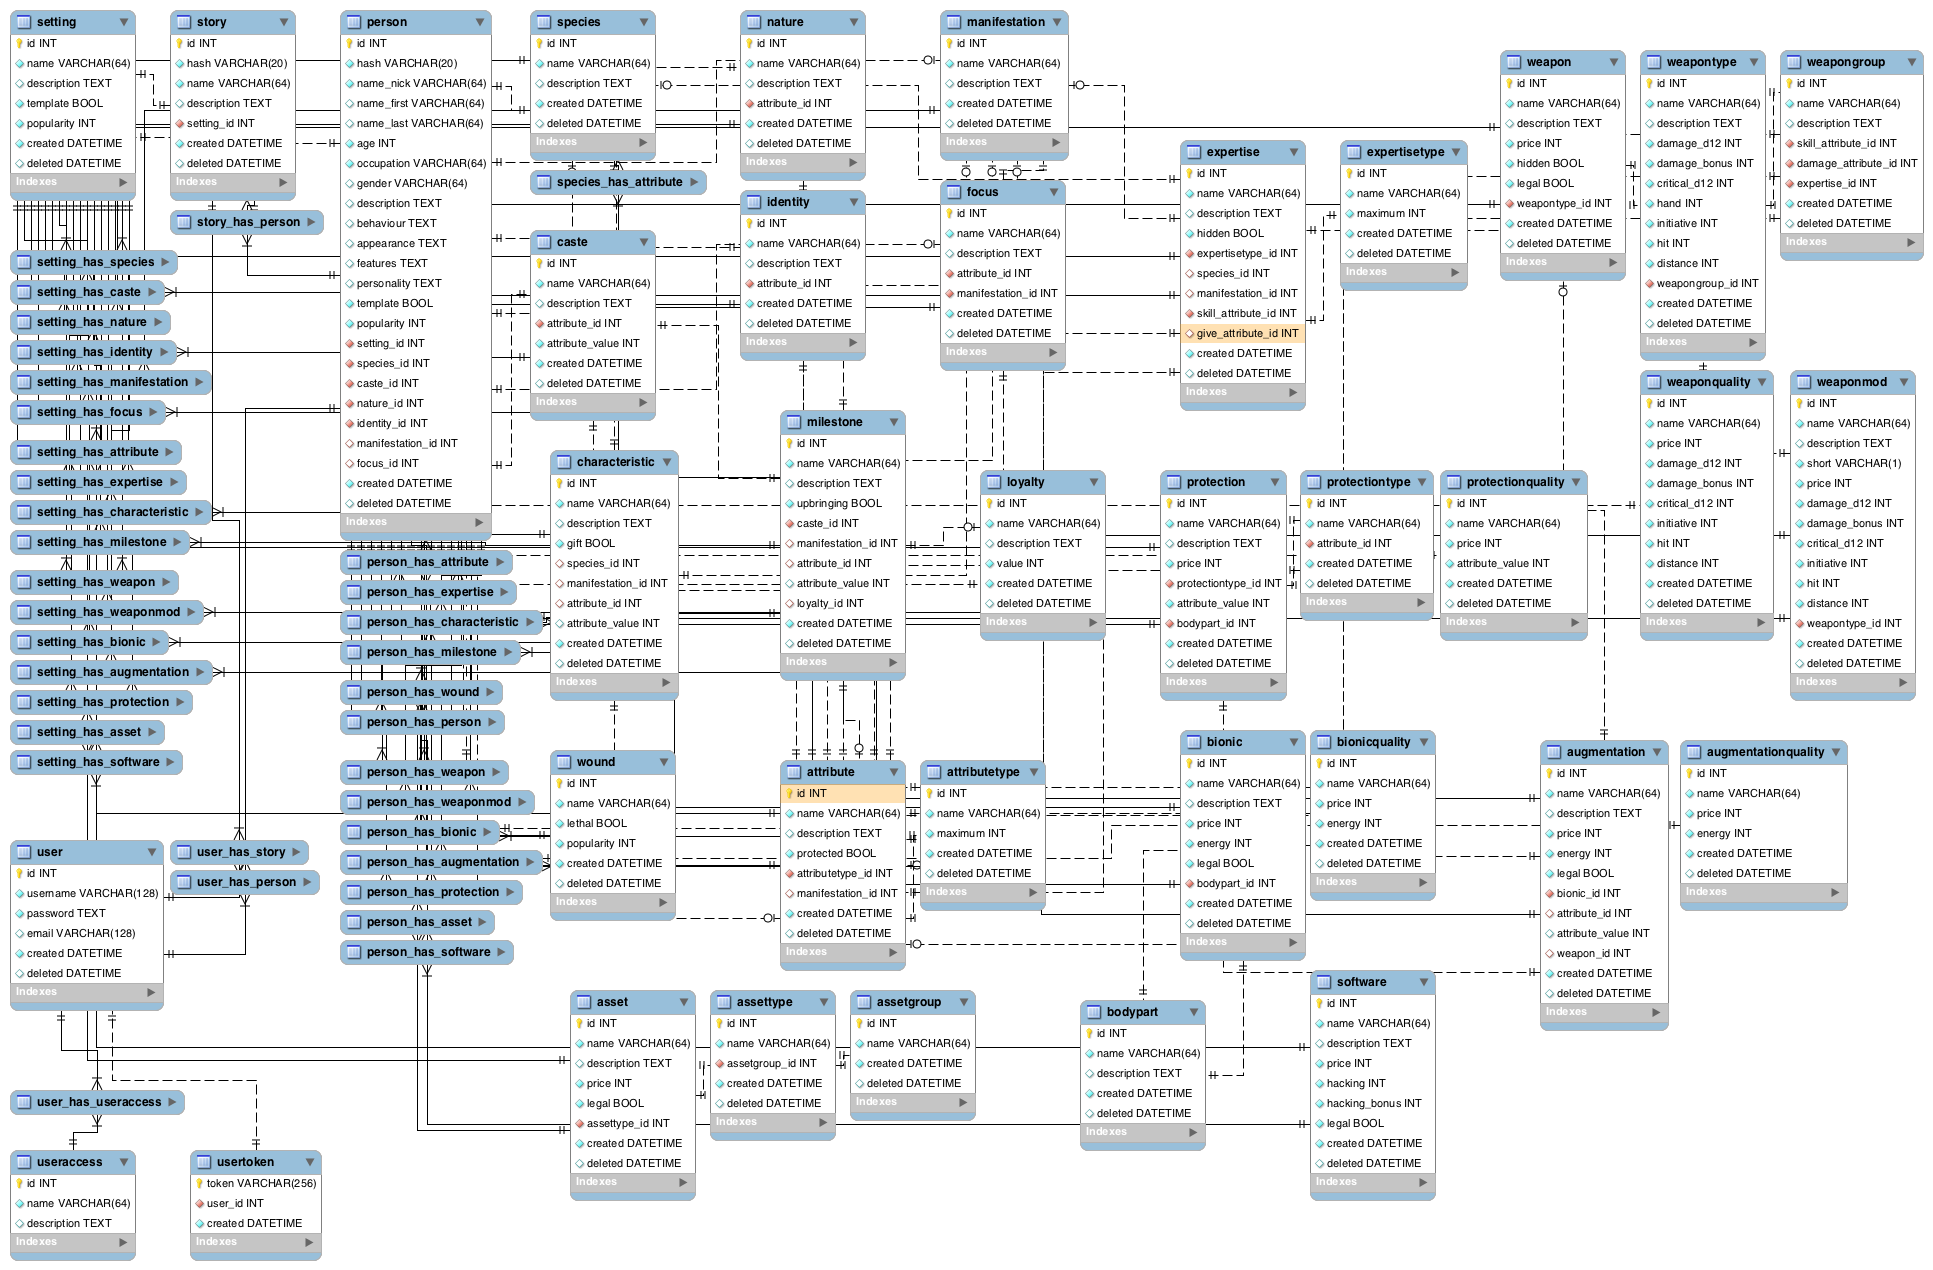
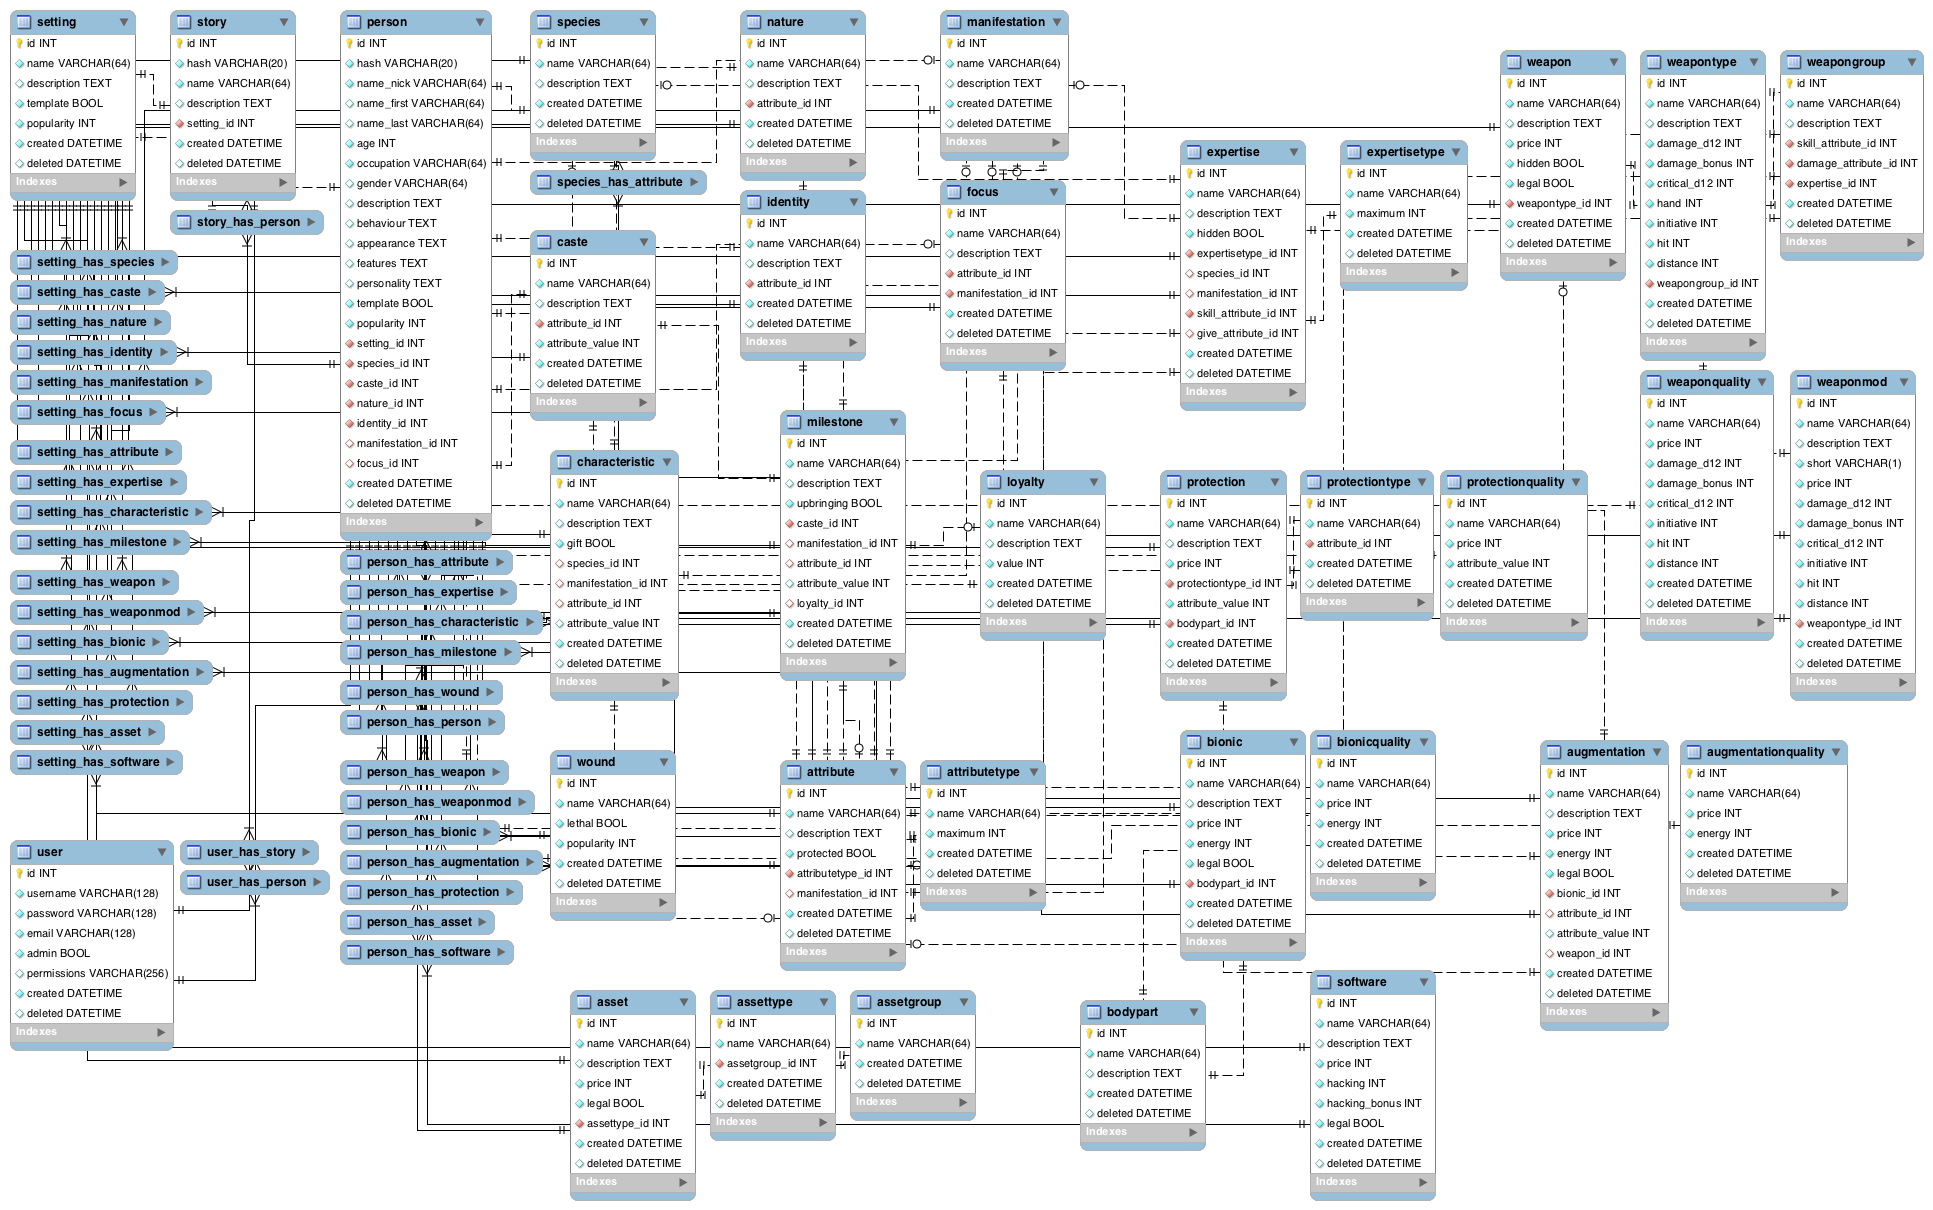
user upgrading user

diff --git a/app/rest.js b/app/rest.js
@@ -1,5 +1,9 @@
 var mysql = require('mysql'),
-    config = require('./config');
+    bcrypt = require('bcrypt'),
+    config = require('./config'),
+    webtokens = require('./webtokens');
+
+const saltRounds = 16;
 
 function DEBUG(call, error, key, restName) {
     if(key == config.keys.debug) {
@@ -206,4 +210,96 @@ exports.REMOVE = function(pool, req, res, table, jsonObject) {
             res.status(202).send({success: 'removed'});
         }
     });
+};
+
+exports.USERADD = function(pool, req, res) {
+    var user = req.body.username,
+        pass = req.body.password,
+        email = req.body.email,
+        admin = req.body.admin,
+        permissions = req.body.permissions;
+
+    bcrypt.hash(pass, saltRounds, function(error, hash) {
+        if(error) {
+            DEBUG(null, error, req.headers.debug, 'USERAUTH');
+            res.status(500).send({error: error});
+        } else {
+            var call = 'INSERT INTO user (username,password,email,admin,permissions) VALUES (\'' + user + '\',\'' + hash + '\',\'' + email + '\',\'' + admin + '\',\'' + permissions + '\')';
+
+            pool.query(call, function(error, result) {
+                if(error) {
+                    DEBUG(call, error, req.headers.debug, 'USERAUTH');
+                    res.status(500).send({error: error});
+                } else {
+                    var token = webtokens.generate({
+                        id: result.insertId,
+                        sub: result.username,
+                        agent: req.headers['user-agent'],
+                        permissions: '',
+                        admin: false
+                    });
+                    res.status(201).send({success: token});
+                }
+            });
+        }
+    });
+};
+
+exports.USERAUTH = function(pool, req, res) {
+    var reqUser = req.body.username,
+        reqPass = req.body.password;
+
+    var call = 'SELECT user.id, user.name, user.admin, user.permissions FROM user WHERE user.username = \'' + reqUser + '\'';
+
+    pool.query(call, function(error, rows) {
+        if(error) {
+            DEBUG(call, error, req.headers.debug, 'USERAUTH');
+            res.status(500).send({error: error});
+        } else {
+            if(!rows) {
+                res.status(404).send({error: 'user not found'});
+            } else {
+                var row = rows[0],
+                    rowID = row.id,
+                    rowUser = row.username,
+                    rowPass = row.password,
+                    rowAdmin = row.admin,
+                    rowPermissions = row.permissions;
+
+                bcrypt.compare(reqPass, rowPass, function(error, response) {
+                    if(error) {
+                        DEBUG(call, error, req.headers.debug, 'USERAUTH');
+                        res.status(500).send({error: error});
+                    } else {
+                        if(!response) {
+                            res.status(403).send({forbidden: 'wrong password'});
+                        } else {
+                            var token = webtokens.generate({
+                                id: rowID,
+                                sub: rowUser,
+                                agent: req.headers['user-agent'],
+                                admin: rowAdmin,
+                                permissions: rowPermissions
+                            });
+                            res.status(202).send({success: token});
+                        }
+                    }
+                });
+            }
+        }
+    });
+};
+
+exports.USERINFO = function(req, res) {
+    var token = webtokens.validate(req);
+
+    if(!token) {
+        res.status(404).send({error: 'missing token'});
+    } else {
+        if(!token.id) {
+            res.status(400).send({error: 'invalid token'});
+        } else {
+            res.status(200).send({id: token.id, username: token.sub, admin: token.admin, permissions: token.permissions});
+        }
+    }
 };

diff --git a/app/user/user.js b/app/user/user.js
@@ -1,13 +1,9 @@
-var rest = require('./../rest'),
-    bcrypt = require('bcrypt'),
-    webtokens = require('./../webtokens');
-
-const saltRounds = 10;
+var rest = require('./../rest');
 
 module.exports = function(pool, router, table, path) {
     path = path || '/' + table;
 
-    var query = 'SELECT ' +
+    var publicQuery = 'SELECT ' +
         'user.id, ' +
         'user.username, ' +
         'user.email, ' +
@@ -16,80 +12,23 @@ module.exports = function(pool, router, table, path) {
         'FROM user';
 
     router.get(path, function(req, res) {
-        rest.QUERY(pool, req, res, query, null);
+        rest.QUERY(pool, req, res, publicQuery, null);
     });
 
     router.get(path + '/id/:id', function(req, res) {
-        var call = query + ' WHERE user.id = ?';
+        var call = publicQuery + ' WHERE user.id = ?';
         rest.QUERY(pool, req, res, call, [req.params.id]);
     });
 
+    router.get(path + '/info', function(req, res) {
+        rest.USERINFO(req, res);
+    });
+
     router.post(path + '/create', function(req, res) {
-        var user = req.body.username,
-            pass = req.body.password,
-            email = req.body.email;
-
-        bcrypt.hash(pass, saltRounds, function(error, hash) {
-            if(error) {
-                res.status(500).send({error: error});
-            } else {
-                var call = 'INSERT INTO user (username,password,email) VALUES (\'' + user + '\',\'' + hash + '\',\'' + email + '\')';
-
-                pool.query(call, function(error, result) {
-                    if(error) {
-                        res.status(500).send({error: error});
-                    } else {
-                        var token = webtokens.generate({
-                            id: result.insertId,
-                            sub: result.username,
-                            agent: req.headers['user-agent'],
-                            permissions: '',
-                            admin: false
-                        });
-                        res.status(201).send({success: {id: result.insertId, user: result.username, token: token}});
-                    }
-                });
-            }
-        });
+        rest.USERADD(pool, req, res);
     });
 
     router.post(path + '/auth', function(req, res) {
-        var reqUser = req.body.username,
-            reqPass = req.body.password;
-
-        var call = 'SELECT * FROM user WHERE user.username = \'' + reqUser + '\'';
-
-        pool.query(call, function(error, rows) {
-            if(error) {
-                res.status(500).send({error: error});
-            } else {
-                if(!rows) {
-                    res.status(404).send({error: 'user not found'});
-                } else {
-                    var dbUser = rows[0].username;
-                    var dbPass = rows[0].password;
-                    var dbID = rows[0].id;
-
-                    bcrypt.compare(reqPass, dbPass, function(error, response) {
-                        if(error) {
-                            res.status(500).send({error: error});
-                        } else {
-                            if(!response) {
-                                res.status(403).send({forbidden: 'wrong password'});
-                            } else {
-                                var token = webtokens.generate({
-                                    id: dbID,
-                                    sub: dbUser,
-                                    agent: req.headers['user-agent'],
-                                    permissions: '',
-                                    admin: false
-                                });
-                                res.status(202).send({success: {id: dbID, user: dbUser, token: token}});
-                            }
-                        }
-                    });
-                }
-            }
-        });
+        rest.USERAUTH(pool, req, res);
     });
 };

diff --git a/app/user/user_has_story.js b/app/user/user_has_story.js
@@ -1,4 +1,40 @@
-//todo
+var rest = require('./../rest');
 
 module.exports = function(pool, router, table, path) {
-}
+    path = path || '/' + table;
+
+    var query = 'SELECT ' +
+        'user_has_story.user_id, ' +
+        'user_has_story.story_id, ' +
+        'user_has_story.hash AS story_hash, ' +
+        'story.name AS story_name, ' +
+        'story.setting_id, ' +
+        'setting.name AS setting_name, ' +
+        'story.created, ' +
+        'story.deleted ' +
+        'FROM user_has_story ' +
+        'LEFT JOIN story ON story.id = user_has_story.story_id ' +
+        'LEFT JOIN setting ON setting.id = story.setting_id';
+
+    router.get(path, function(req, res) {
+        var token = webtokens.validate(req);
+        var call = query + ' WHERE ' +
+            'user_has_story.user_id = ? AND ' +
+            'story.deleted is null';
+
+        rest.QUERY(pool, req, res, call, [token.id]);
+    });
+
+    router.post(path, function(req, res) {
+        rest.INSERT(pool, req, res, table, req.body);
+    });
+
+    router.delete(path + '/id/:id1/id/:id2', function(req, res) {
+        var call = {
+            "user_id": req.params.id1,
+            "story_id": req.params.id2
+        };
+
+        rest.REMOVE(pool, req, res, table, call);
+    });
+};

diff --git a/app/user/user_has_person.js b/app/user/user_has_person.js
@@ -1,4 +1,39 @@
-//todo
+var rest = require('./../rest');
 
 module.exports = function(pool, router, table, path) {
-}
+    path = path || '/' + table;
+
+    var query = 'SELECT ' +
+        'user_has_person.user_id, ' +
+        'user_has_person.person_id, ' +
+        'user_has_person.hash AS person_hash, ' +
+        'person.name_nick AS person_name_nick, ' +
+        'person.name_first AS person_name_first, ' +
+        'person.name_last AS person_name_last, ' +
+        'person.created, ' +
+        'person.deleted ' +
+        'FROM user_has_person ' +
+        'LEFT JOIN person ON person.id = user_has_person.person_id';
+
+    router.get(path, function(req, res) {
+        var token = webtokens.validate(req);
+        var call = query + ' WHERE ' +
+            'user_has_person.user_id = ? AND ' +
+            'person.deleted is null';
+
+        rest.QUERY(pool, req, res, call, [token.id]);
+    });
+
+    router.post(path, function(req, res) {
+        rest.INSERT(pool, req, res, table, req.body);
+    });
+
+    router.delete(path + '/id/:id1/id/:id2', function(req, res) {
+        var call = {
+            "user_id": req.params.id1,
+            "person_id": req.params.id2
+        };
+
+        rest.REMOVE(pool, req, res, table, call);
+    });
+};
